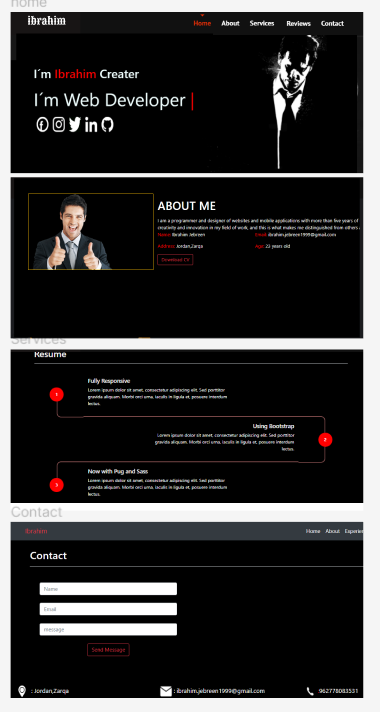
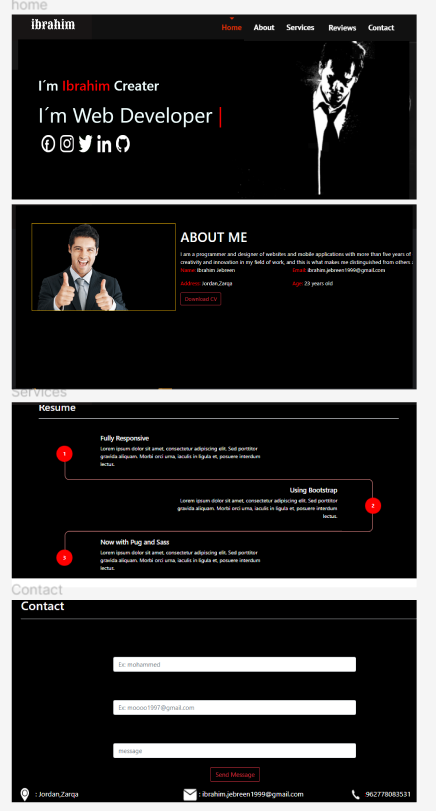
change wireframe and mockups and Experience page ranking

diff --git a/index.html b/index.html
@@ -128,12 +128,14 @@
                             <div class="circle font-weight-bold">1</div>
                         </div>
                         <div class="col-6 text-light">
-                            <h5>Java Developer</h5>
-                            <p>Designing, implementing and maintaining Java-based applications, Contributing in all
-                                phases of the development lifecycle,
-                                Writing testable, scalable and efficient code,
-                                Test and debug new applications and updates, Maintain up to date code documentation, and
-                                Participating in code reviews.</p>
+                            <h5>Web Developer</h5>
+                            
+
+                                <p>HTML/CSS, Analytical skills, Responsive design, Testing and debugging, and Back-end
+                                    basics.HTML/CSS, Analytical skills, Responsive design, Testing and debugging, and
+                                    Back-end basics.
+                                    Skills: Java · Web Development · PHP · JavaScript · SQL · PL/SQL · Django · Python
+                                    (Programming Language)</p>
                         </div>
                     </div>
 
@@ -151,12 +153,12 @@
 
                     <div class="row align-items-center justify-content-end how-it-works d-flex">
                         <div class="col-6 text-right text-light">
-                            <h5>Web Developer</h5>
-                            <p>HTML/CSS, Analytical skills, Responsive design, Testing and debugging, and Back-end
-                                basics.HTML/CSS, Analytical skills, Responsive design, Testing and debugging, and
-                                Back-end basics.
-                                Skills: Java · Web Development · PHP · JavaScript · SQL · PL/SQL · Django · Python
-                                (Programming Language)</p>
+                            <h5>Java Developer</h5>
+                            <p>Designing, implementing and maintaining Java-based applications, Contributing in all
+                                phases of the development lifecycle,
+                                Writing testable, scalable and efficient code,
+                                Test and debug new applications and updates, Maintain up to date code documentation, and
+                                Participating in code reviews.</p>
                         </div>
                         <div class="col-2 text-center full d-inline-flex justify-content-center align-items-center">
                             <div class="circle font-weight-bold">2</div>

diff --git a/README.md b/README.md
@@ -5,5 +5,5 @@ https://ibrahimjebreen.github.io/task2-orange-academy/
 
 
 ![alt text](https://github.com/IbrahimJebreen/task2-orange-academy/blob/main/mockups.PNG?raw=true)
-![alt text](https://github.com/IbrahimJebreen/task2-orange-academy/blob/main/finalewireframe.PNG?raw=true)
+![alt text](https://github.com/IbrahimJebreen/task2-orange-academy/blob/main/wireframe.PNG?raw=true)
 
